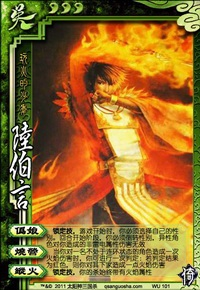
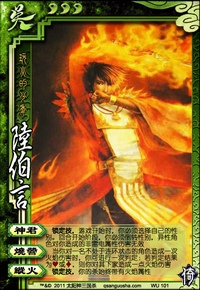
Zhonghui renamed to Zhongshiji and Weiniang renamed to Shenjun

diff --git a/src/yitianpackage.cpp b/src/yitianpackage.cpp
@@ -982,9 +982,9 @@ public:
     }
 };
 
-class Weiniang: public TriggerSkill{
+class Shenjun: public TriggerSkill{
 public:
-    Weiniang():TriggerSkill("weiniang"){
+    Shenjun():TriggerSkill("shenjun"){
         events << GameStart << PhaseChange << Predamaged;
         frequency = Compulsory;
     }   
@@ -999,7 +999,7 @@ public:
             }
 
             LogMessage log;
-            log.type = "#WeiniangChoose";
+            log.type = "#ShenjunChoose";
             log.from = player;
             log.arg = gender;
             room->sendLog(log);
@@ -1008,7 +1008,7 @@ public:
             if(player->getPhase() == Player::Start){
                 LogMessage log;
                 log.from = player;
-                log.type = "#WeiniangFlip";
+                log.type = "#ShenjunFlip";
                 room->sendLog(log);
 
                 player->flip();
@@ -1020,7 +1020,7 @@ public:
                damage.from->getGeneral()->isMale() != player->getGeneral()->isMale()){
 
                 LogMessage log;
-                log.type = "#WeiniangProtect";
+                log.type = "#ShenjunProtect";
                 log.to << player;
                 log.from = damage.from;
                 room->sendLog(log);
@@ -1108,21 +1108,21 @@ public:
 
     }
 
-    virtual bool onPhaseChange(ServerPlayer *zhonghui) const{
-        switch(zhonghui->getPhase()){
+    virtual bool onPhaseChange(ServerPlayer *zhongshiji) const{
+        switch(zhongshiji->getPhase()){
         case Player::Finish:{
-                if(zhonghui->askForSkillInvoke(objectName())){
-                    Room *room = zhonghui->getRoom();
-                    QList<ServerPlayer *> players = room->getOtherPlayers(zhonghui);
-                    ServerPlayer *target = room->askForPlayerChosen(zhonghui, players, "gongmou");
+                if(zhongshiji->askForSkillInvoke(objectName())){
+                    Room *room = zhongshiji->getRoom();
+                    QList<ServerPlayer *> players = room->getOtherPlayers(zhongshiji);
+                    ServerPlayer *target = room->askForPlayerChosen(zhongshiji, players, "gongmou");
                     target->gainMark("@conspiracy");
                 }
                 break;
             }
 
         case Player::Start:{
-                Room *room = zhonghui->getRoom();
-                QList<ServerPlayer *> players = room->getOtherPlayers(zhonghui);
+                Room *room = zhongshiji->getRoom();
+                QList<ServerPlayer *> players = room->getOtherPlayers(zhongshiji);
                 foreach(ServerPlayer *player, players){
                     if(player->getMark("@conspiracy") > 0)
                         player->loseMark("@conspiracy");
@@ -1159,9 +1159,9 @@ public:
         player->loseMark("@conspiracy");
 
         Room *room = player->getRoom();
-        ServerPlayer *zhonghui = room->findPlayerBySkillName("gongmou");
-        if(zhonghui){
-            int x = qMin(zhonghui->getHandcardNum(), player->getHandcardNum());
+        ServerPlayer *zhongshiji = room->findPlayerBySkillName("gongmou");
+        if(zhongshiji){
+            int x = qMin(zhongshiji->getHandcardNum(), player->getHandcardNum());
             if(x == 0)
                 return false;
 
@@ -1171,18 +1171,18 @@ public:
             else
                 to_exchange = room->askForExchange(player, "gongmou", x);
 
-            room->moveCardTo(to_exchange, zhonghui, Player::Hand, false);
+            room->moveCardTo(to_exchange, zhongshiji, Player::Hand, false);
 
             delete to_exchange;
 
-            to_exchange = room->askForExchange(zhonghui, "gongmou", x);
+            to_exchange = room->askForExchange(zhongshiji, "gongmou", x);
             room->moveCardTo(to_exchange, player, Player::Hand, false);
 
             delete to_exchange;
 
             LogMessage log;
             log.type = "#GongmouExchange";
-            log.from = zhonghui;
+            log.from = zhongshiji;
             log.to << player;
             log.arg = QString::number(x);
             room->sendLog(log);
@@ -1240,20 +1240,20 @@ YitianPackage::YitianPackage()
     caizhaoji->addSkill(new CaizhaojiHujia);
 
     General *luboyan = new General(this, "luboyan", "wu", 3);
-    luboyan->addSkill(new Weiniang);
+    luboyan->addSkill(new Shenjun);
     luboyan->addSkill(new Shaoying);
     luboyan->addSkill(new Zonghuo);
 
     General *luboyanf = new General(NULL, "luboyanf", "wu", 3, false);
-    luboyanf->addSkill(new Weiniang);
+    luboyanf->addSkill(new Shenjun);
     luboyanf->addSkill(new Shaoying);
     luboyanf->addSkill(new Zonghuo);
 
     luboyan->setHyde(luboyanf);
 
-    General *zhonghui = new General(this, "zhonghui", "wei");
-    zhonghui->addSkill(new Gongmou);
-    zhonghui->addSkill(new GongmouExchange);
+    General *zhongshiji = new General(this, "zhongshiji", "wei");
+    zhongshiji->addSkill(new Gongmou);
+    zhongshiji->addSkill(new GongmouExchange);
 
     skills << new YitianSwordViewAsSkill << new LianliSlashViewAsSkill;
 

diff --git a/src/god.cpp b/src/god.cpp
@@ -560,53 +560,9 @@ public:
     }
 };
 
-class Qixing: public ViewAsSkill{
+class Qixing: public PhaseChangeSkill{
 public:
-    Qixing():ViewAsSkill("qixing"){
-
-    }
-
-    virtual bool isEnabledAtPlay() const{
-        return false;
-    }
-
-    virtual bool viewFilter(const QList<CardItem *> &selected, const CardItem *to_select) const{
-        return selected.length() < Self->getMark("qixing-exchange") && !to_select->isEquipped();
-    }
-
-    virtual const Card *viewAs(const QList<CardItem *> &cards) const{
-        if(cards.length() != Self->getMark("qixing-exchange"))
-            return NULL;
-
-        QixingCard *card = new QixingCard;
-        card->addSubcards(cards);
-
-        return card;
-    }
-};
-
-QixingCard::QixingCard(){
-    target_fixed = true;
-}
-
-void QixingCard::use(Room *room, ServerPlayer *source, const QList<ServerPlayer *> &targets) const{
-    QList<int> &stars = source->getPile("stars");
-
-    foreach(int subcard, subcards){
-        stars << subcard;
-        room->moveCardTo(subcard, source, Player::Special, false);
-    }
-
-    LogMessage log;
-    log.type = "#QixingExchange";
-    log.from = source;
-    log.arg = QString::number(subcards.length());
-    room->sendLog(log);
-}
-
-class QixingExchange: public PhaseChangeSkill{
-public:
-    QixingExchange():PhaseChangeSkill("#qixing-exchange"){
+    Qixing():PhaseChangeSkill("qixing"){
         frequency = Frequent;
     }
 
@@ -648,20 +604,19 @@ public:
             return;
 
         int n = to_exchange.length();
-        room->setPlayerMark(shenzhuge, "qixing-exchange", n);
+        const Card *exchange_card = room->askForExchange(shenzhuge, "qixing", n);
 
-        QString prompt = QString("@qixing-exchange:::%1").arg(n);
-        bool used = room->askForUseCard(shenzhuge, "@qixing!", prompt);
-        if(!used){
-            QList<int> to_exchange = shenzhuge->handCards().mid(0, n);
-            QixingCard *qixing_card = new QixingCard;
-            foreach(int card_id, to_exchange)
-                qixing_card->addSubcard(card_id);
+        LogMessage log;
+        log.type = "#QixingExchange";
+        log.from = shenzhuge;
+        log.arg = QString::number(n);
+        room->sendLog(log);
 
-            qixing_card->use(room, shenzhuge, QList<ServerPlayer *>());
+        room->moveCardTo(exchange_card, shenzhuge, Player::Special, false);
 
-            delete qixing_card;
-        }
+        stars.append(exchange_card->getSubcards());
+
+        delete exchange_card;
     }
 
     static void DiscardStar(ServerPlayer *shenzhuge, int n){
@@ -709,7 +664,7 @@ public:
             room->setCardMapping(star, shenzhuge, Player::Special);
         shenzhuge->getPile("stars") = stars;
 
-        QixingExchange::Exchange(shenzhuge);
+        Qixing::Exchange(shenzhuge);
     }
 };
 
@@ -722,7 +677,7 @@ bool KuangfengCard::targetFilter(const QList<const ClientPlayer *> &targets, con
 }
 
 void KuangfengCard::onEffect(const CardEffectStruct &effect) const{
-    QixingExchange::DiscardStar(effect.from, 1);
+    Qixing::DiscardStar(effect.from, 1);
 
     effect.from->loseMark("@star");
     effect.to->gainMark("@gale");
@@ -854,7 +809,7 @@ bool DawuCard::targetFilter(const QList<const ClientPlayer *> &targets, const Cl
 
 void DawuCard::use(Room *room, ServerPlayer *source, const QList<ServerPlayer *> &targets) const{
     int n = targets.length();
-    QixingExchange::DiscardStar(source, n);
+    Qixing::DiscardStar(source, n);
 
     source->loseMark("@star", n);
     foreach(ServerPlayer *target, targets){
@@ -939,7 +894,6 @@ GodPackage::GodPackage()
 
     General *shenzhugeliang = new General(this, "shenzhugeliang", "god", 3);
     shenzhugeliang->addSkill(new Qixing);
-    shenzhugeliang->addSkill(new QixingExchange);
     shenzhugeliang->addSkill(new QixingStart);
     shenzhugeliang->addSkill(new QixingClear);
     shenzhugeliang->addSkill(new QixingAsk);
@@ -967,7 +921,6 @@ GodPackage::GodPackage()
     addMetaObject<KuangfengCard>();
     addMetaObject<DawuCard>();
     addMetaObject<WuqianCard>();
-    addMetaObject<QixingCard>();
 }
 
 ADD_PACKAGE(God)

diff --git a/src/wind.cpp b/src/wind.cpp
@@ -364,6 +364,27 @@ public:
         }else if(event == HpRecover){
             if(zhoutai->getHp() > 0)
                 return false;
+
+            int recover = data.toInt();
+            QList<int> &buqu = zhoutai->getPile("buqu");
+            if(buqu.length() > recover){
+                room->fillAG(buqu);
+
+                int i;
+                for(i=0; i<recover; i++){
+                    int card_id = room->askForAG(zhoutai, buqu);
+                    buqu.removeOne(card_id);
+                    room->throwCard(card_id);
+                }
+
+                room->broadcastInvoke("clearAG");
+            }else{
+                foreach(int card_id, buqu){
+                    room->throwCard(card_id);
+                }
+
+                buqu.clear();
+            }
         }
 
         return false;

diff --git a/src/god.h b/src/god.h
@@ -114,13 +114,4 @@ public:
     virtual void use(Room *room, ServerPlayer *source, const QList<ServerPlayer *> &targets) const;
 };
 
-class QixingCard: public SkillCard{
-    Q_OBJECT
-
-public:
-    Q_INVOKABLE QixingCard();
-
-    virtual void use(Room *room, ServerPlayer *source, const QList<ServerPlayer *> &targets) const;
-};
-
 #endif // GOD_H
